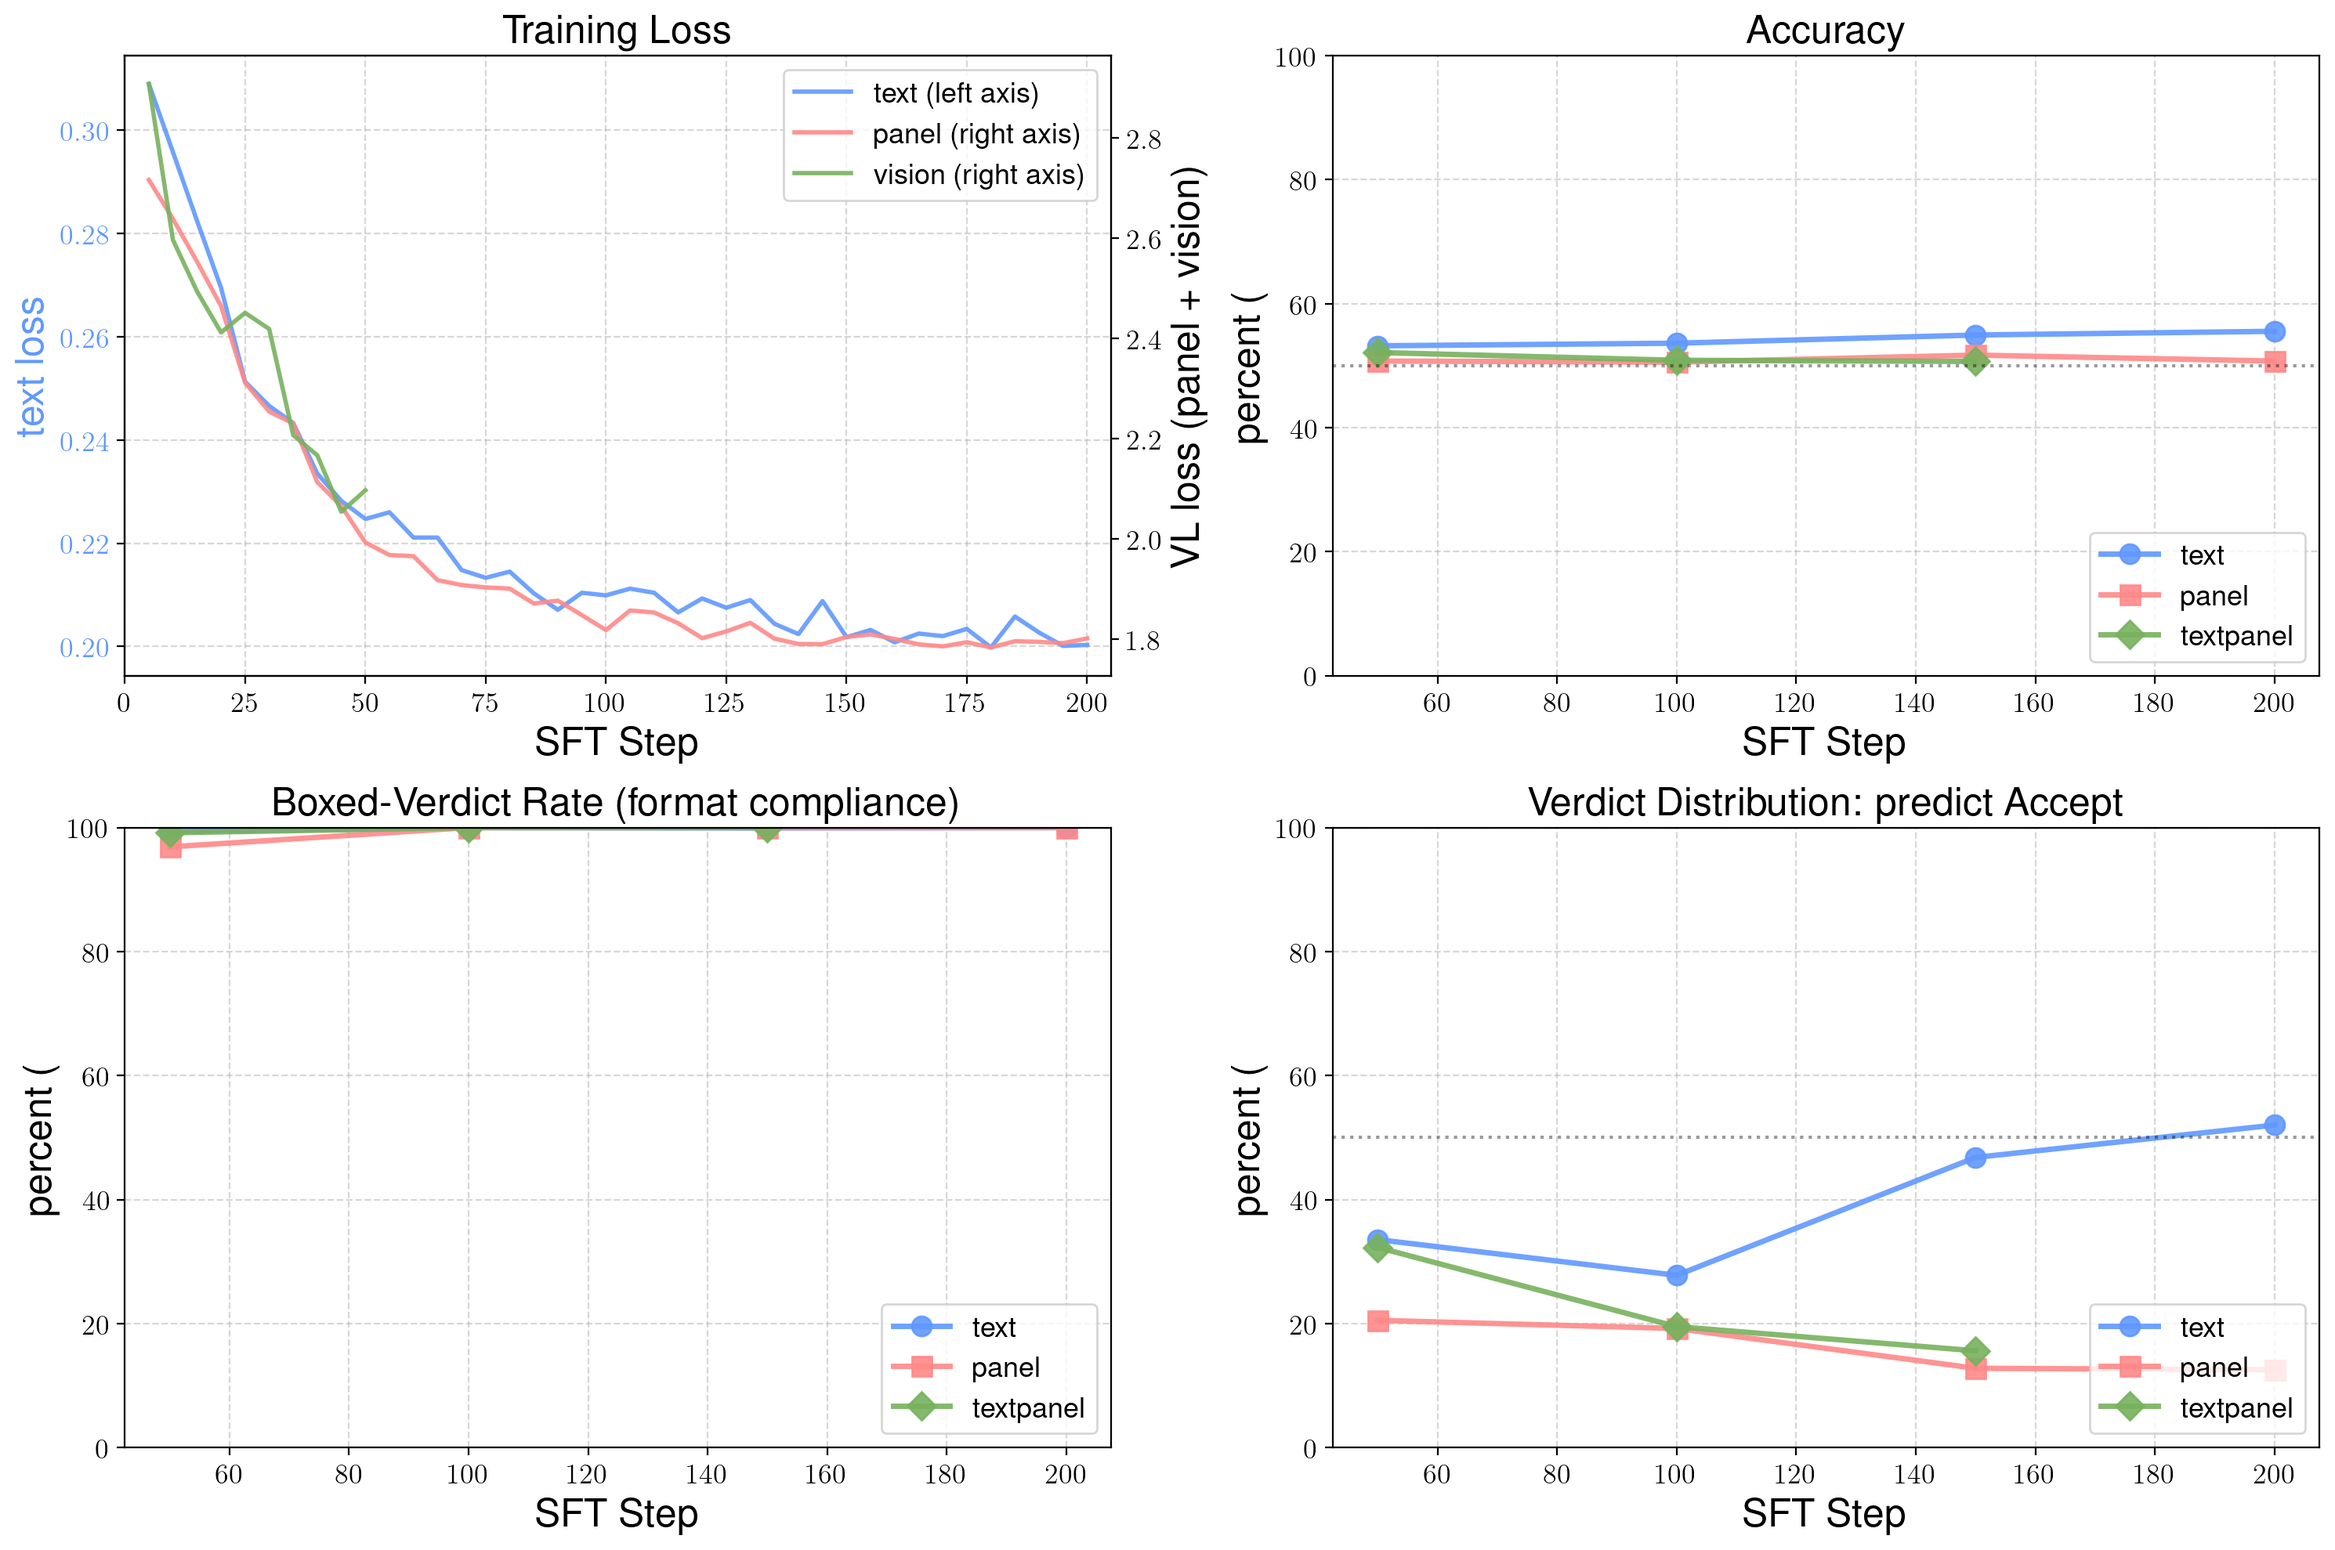
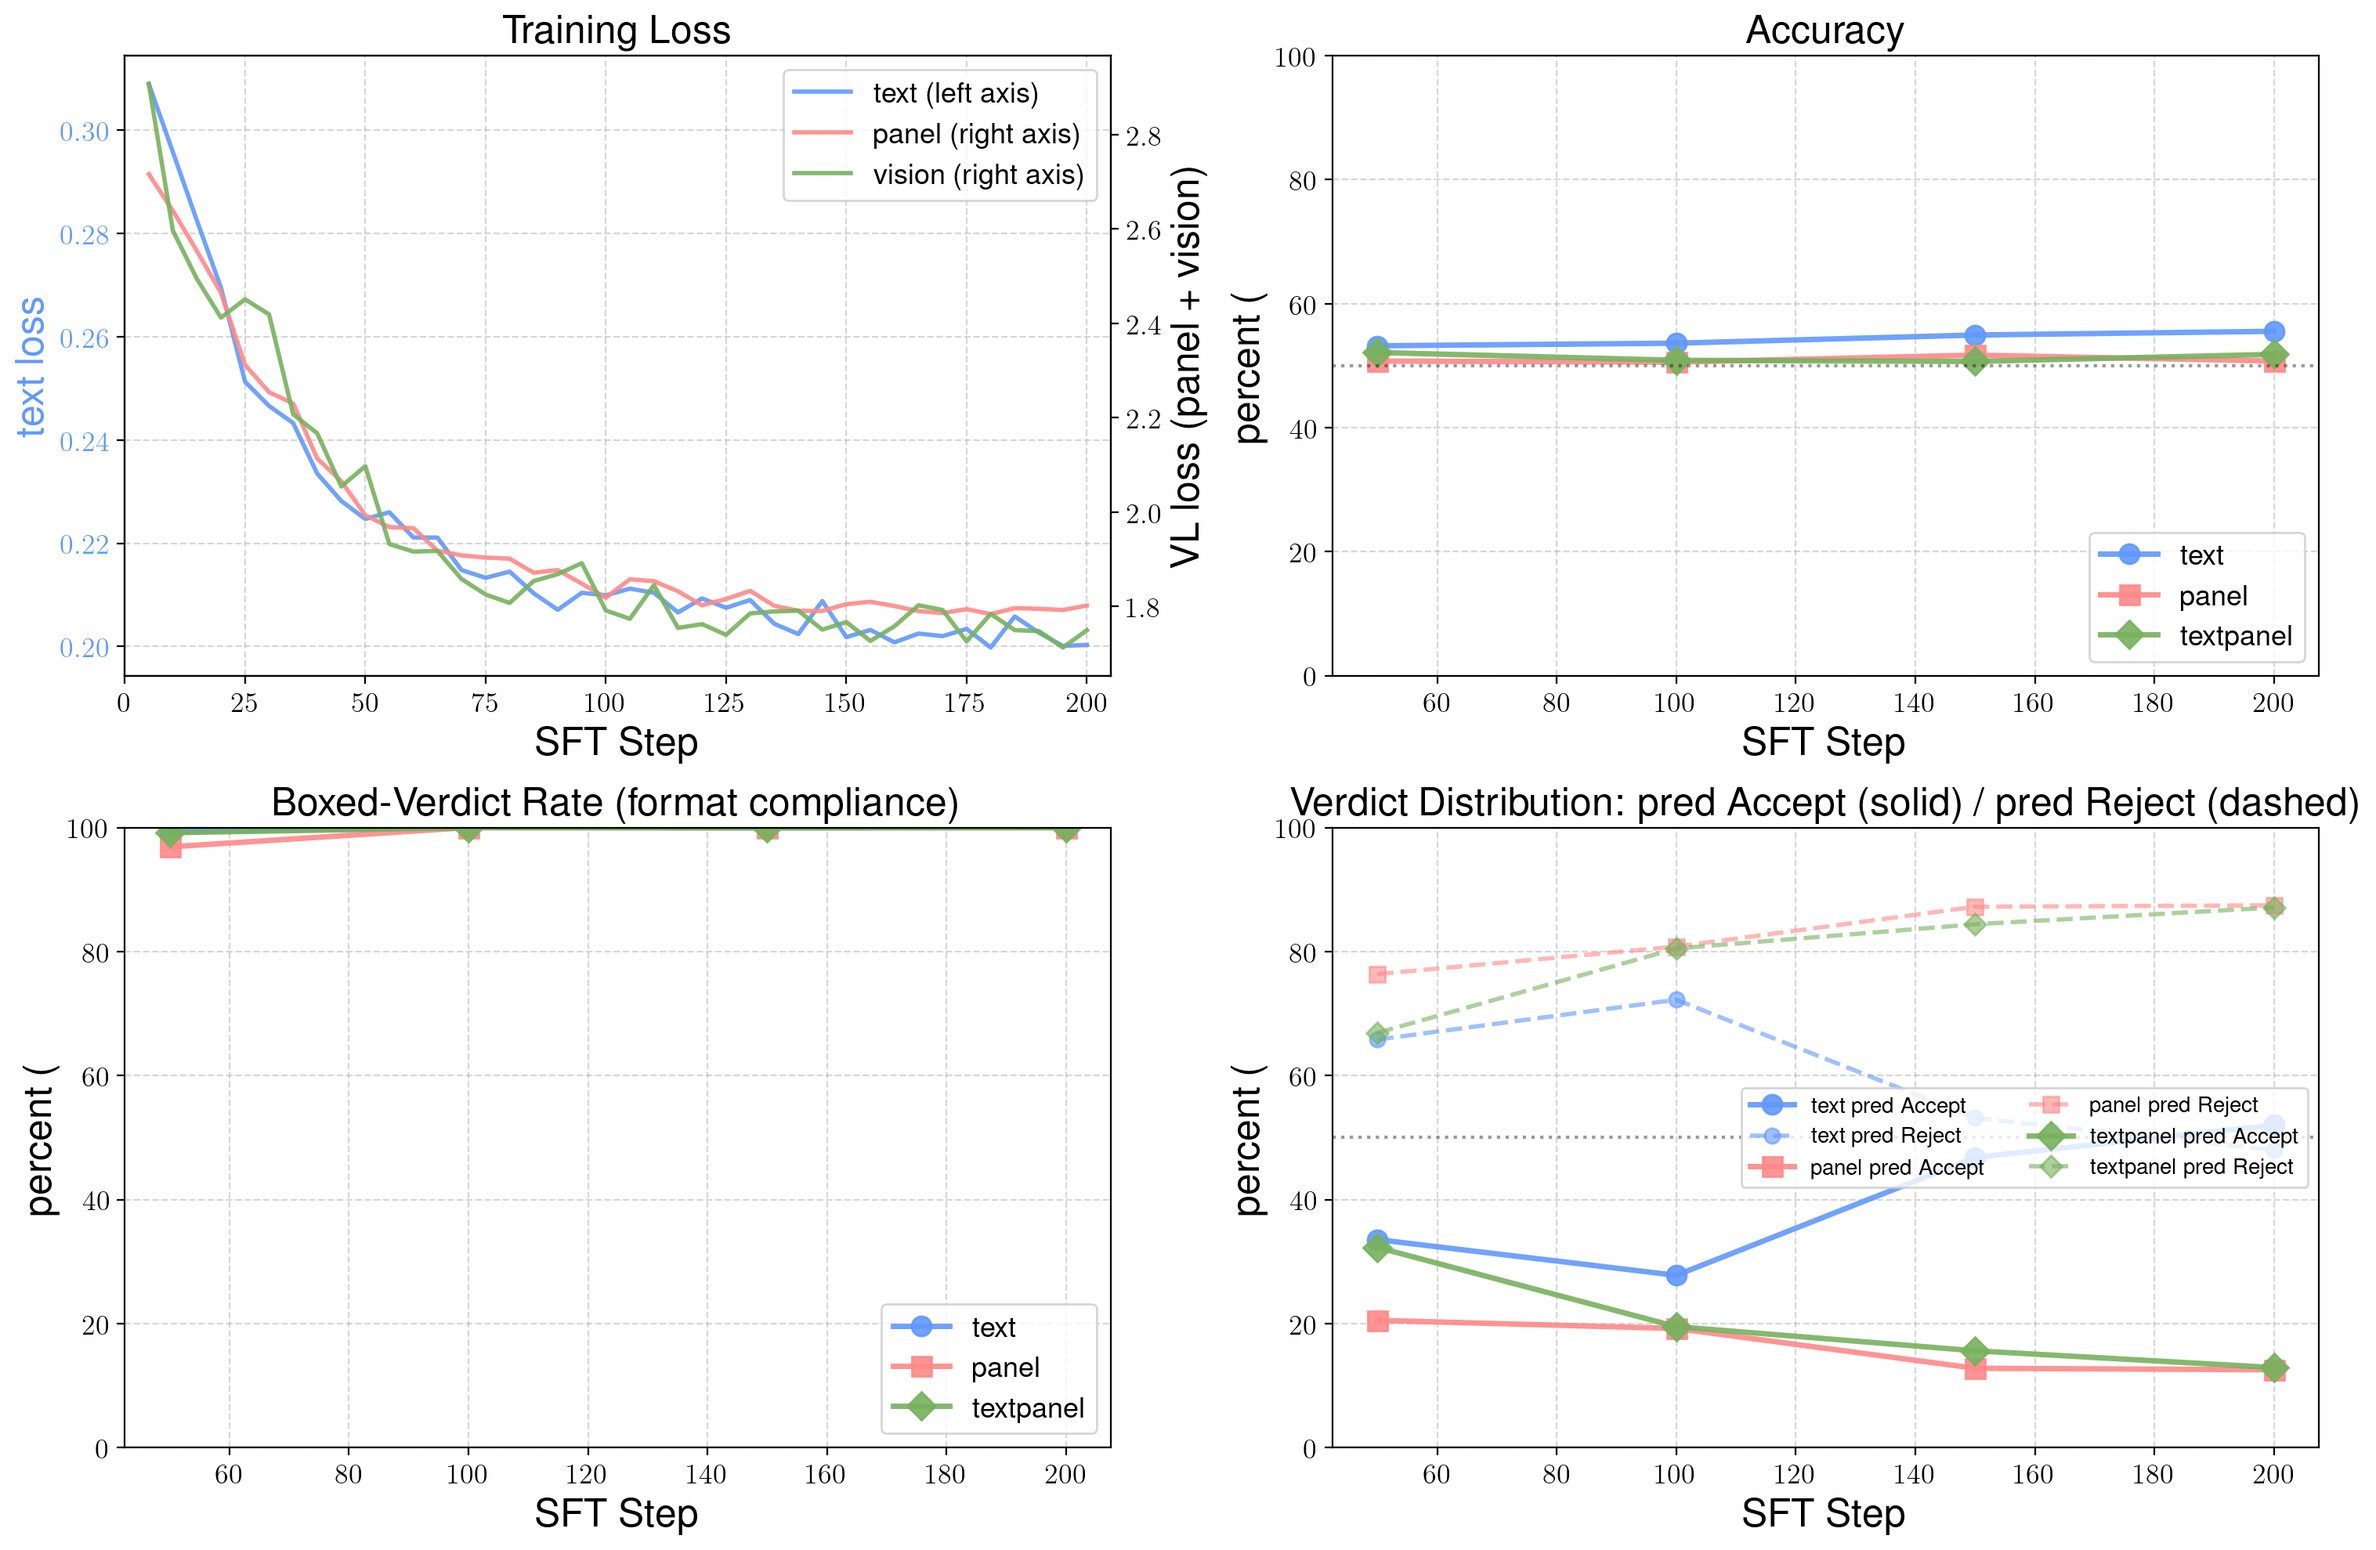
[sft v3] Reject-bias overlay + complete 12/12 evals
Final state — all 4 step-curve ckpts × 3 modalities × 1667 papers:

  text       50→100→150→200  acc 53.2 → 53.6 → 54.9 → 55.5%   pred-Acc 33.5 → 27.8 → 46.8 → 52.0% (recovery)
  panel      50→100→150→200  acc 50.7 → 50.6 → 51.7 → 50.7%   pred-Acc 20.5 → 19.2 → 12.8 → 12.5% (collapse)
  textpanel  50→100→150→200  acc 52.1 → 50.9 → 50.7 → 51.8%   pred-Acc 32.3 → 19.5 → 15.6 → 12.9% (collapse)

Striking visual: textpanel + panel pred-Reject curves overlay almost
exactly by step 150-200. Adding paper text on top of the panel image
doesn't rescue the verdict balance — the image dominates and pulls the
model toward the SYSTEM's 30%-prior even when full paper context is
available. Only pure-text training preserves verdict calibration.

Bottom-right subplot now shows pred-Accept (solid) + pred-Reject (dashed)
per modality so the Reject-bias trajectory is direct.

diff --git a/examples/sft/plot_v3_curves.py b/examples/sft/plot_v3_curves.py
@@ -252,13 +252,26 @@ def main():
         ylim=(0, 100),
     )
 
-    # --- (1,1) Predict-Accept fraction ---
-    plot_metric(
-        axes[1, 1], "pred_accept",
-        {"title": "Verdict Distribution: predict Accept", "y": "percent (%)"},
-        ylim=(0, 100),
-    )
-    axes[1, 1].axhline(50, linestyle=":", color="black", alpha=0.4)
+    # --- (1,1) Predict-Accept (solid) + Predict-Reject (dashed) ---
+    # The dashed lines visualize Reject-bias growth across steps.
+    ax = axes[1, 1]
+    for mod in ("text", "panel", "textpanel"):
+        xs_a, ys_a, xs_r, ys_r = [], [], [], []
+        for s in STEPS:
+            m = eval_metrics[mod][s]
+            if m is not None:
+                xs_a.append(s); ys_a.append(m["pred_accept"] * 100)
+                xs_r.append(s); ys_r.append(m["pred_reject"] * 100)
+        if xs_a:
+            ax.plot(xs_a, ys_a, linewidth=2.5, marker=MARKER[mod], markersize=9,
+                    alpha=0.9, color=COLOR[mod], label=f"{mod} pred Accept")
+            ax.plot(xs_r, ys_r, linewidth=2.0, marker=MARKER[mod], markersize=7,
+                    alpha=0.6, color=COLOR[mod], linestyle="--",
+                    label=f"{mod} pred Reject")
+    stylize(ax, "Verdict Distribution: pred Accept (solid) / pred Reject (dashed)",
+            "percent (%)", ylim=(0, 100))
+    ax.axhline(50, linestyle=":", color="black", alpha=0.4)
+    ax.legend(fontsize=legendsize - 3, loc="center right", ncol=2)
 
     plt.tight_layout()
     out_dir = os.path.join(os.path.dirname(__file__), "artifacts")
